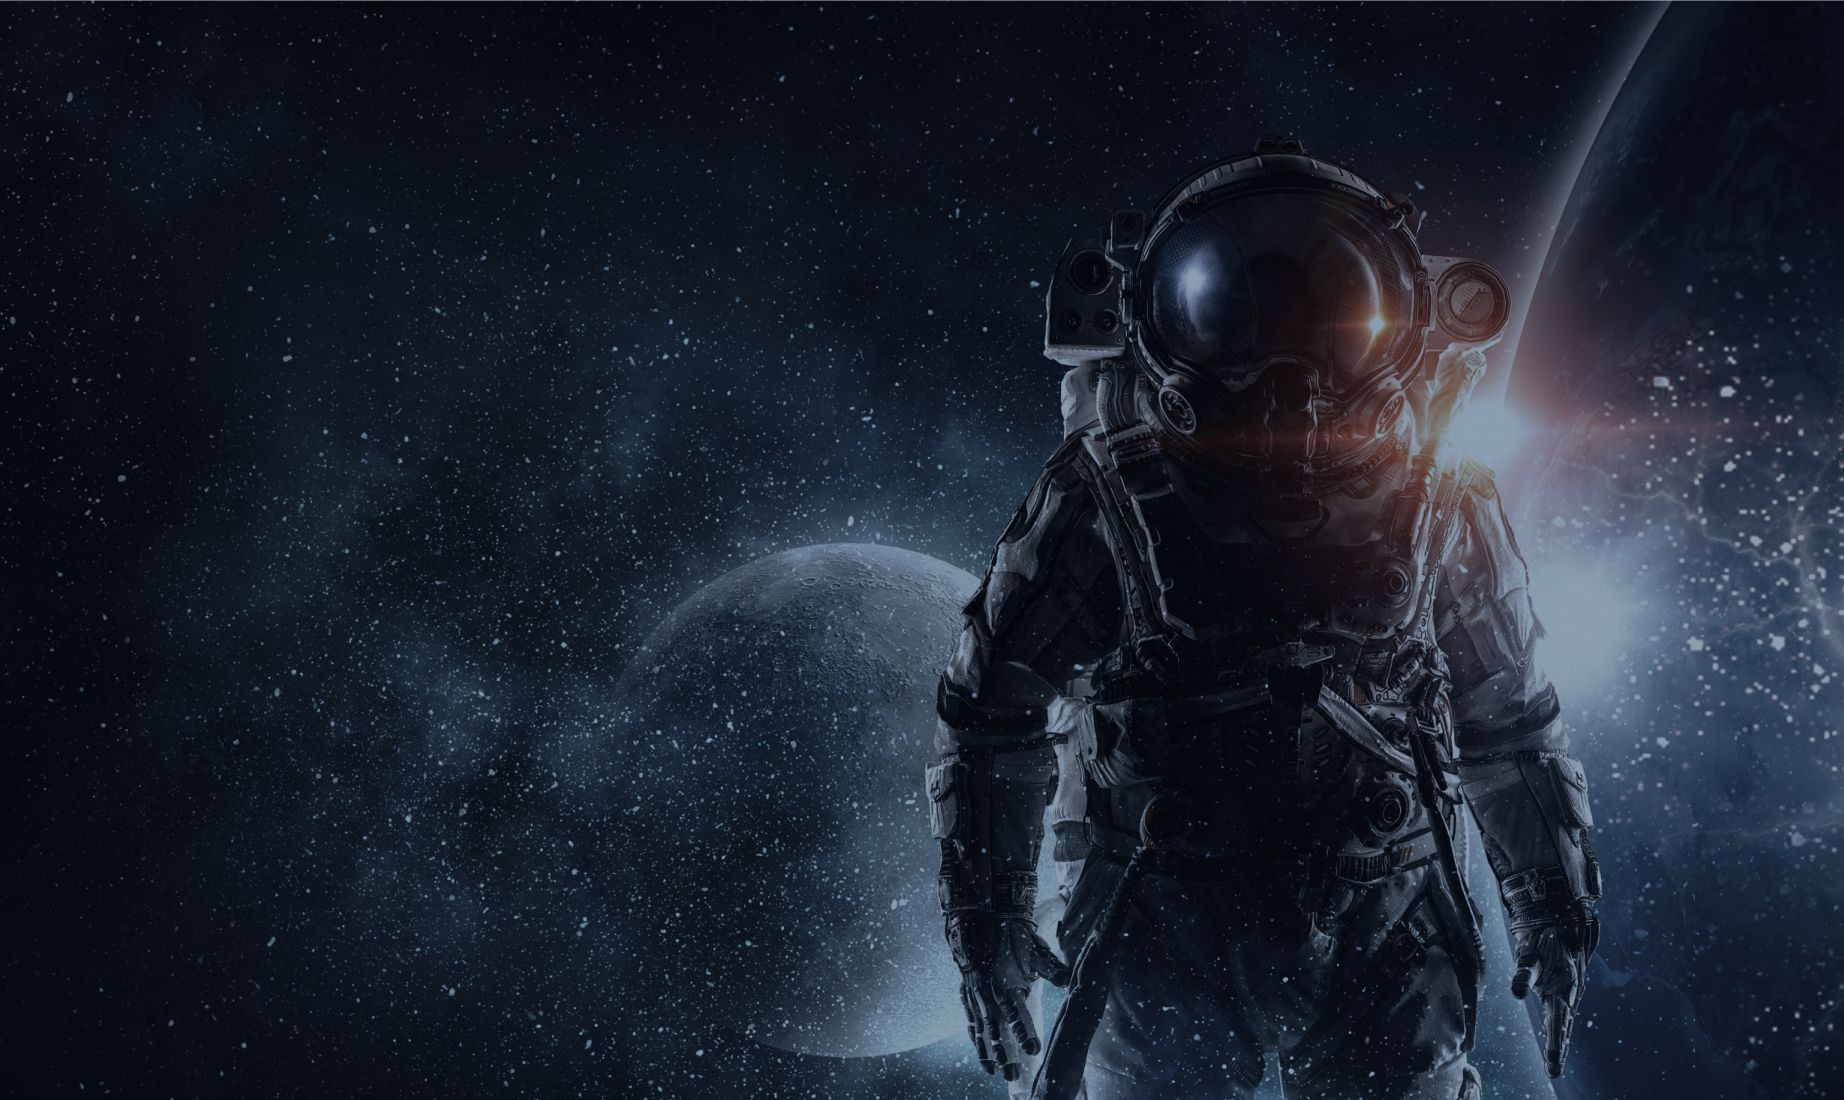
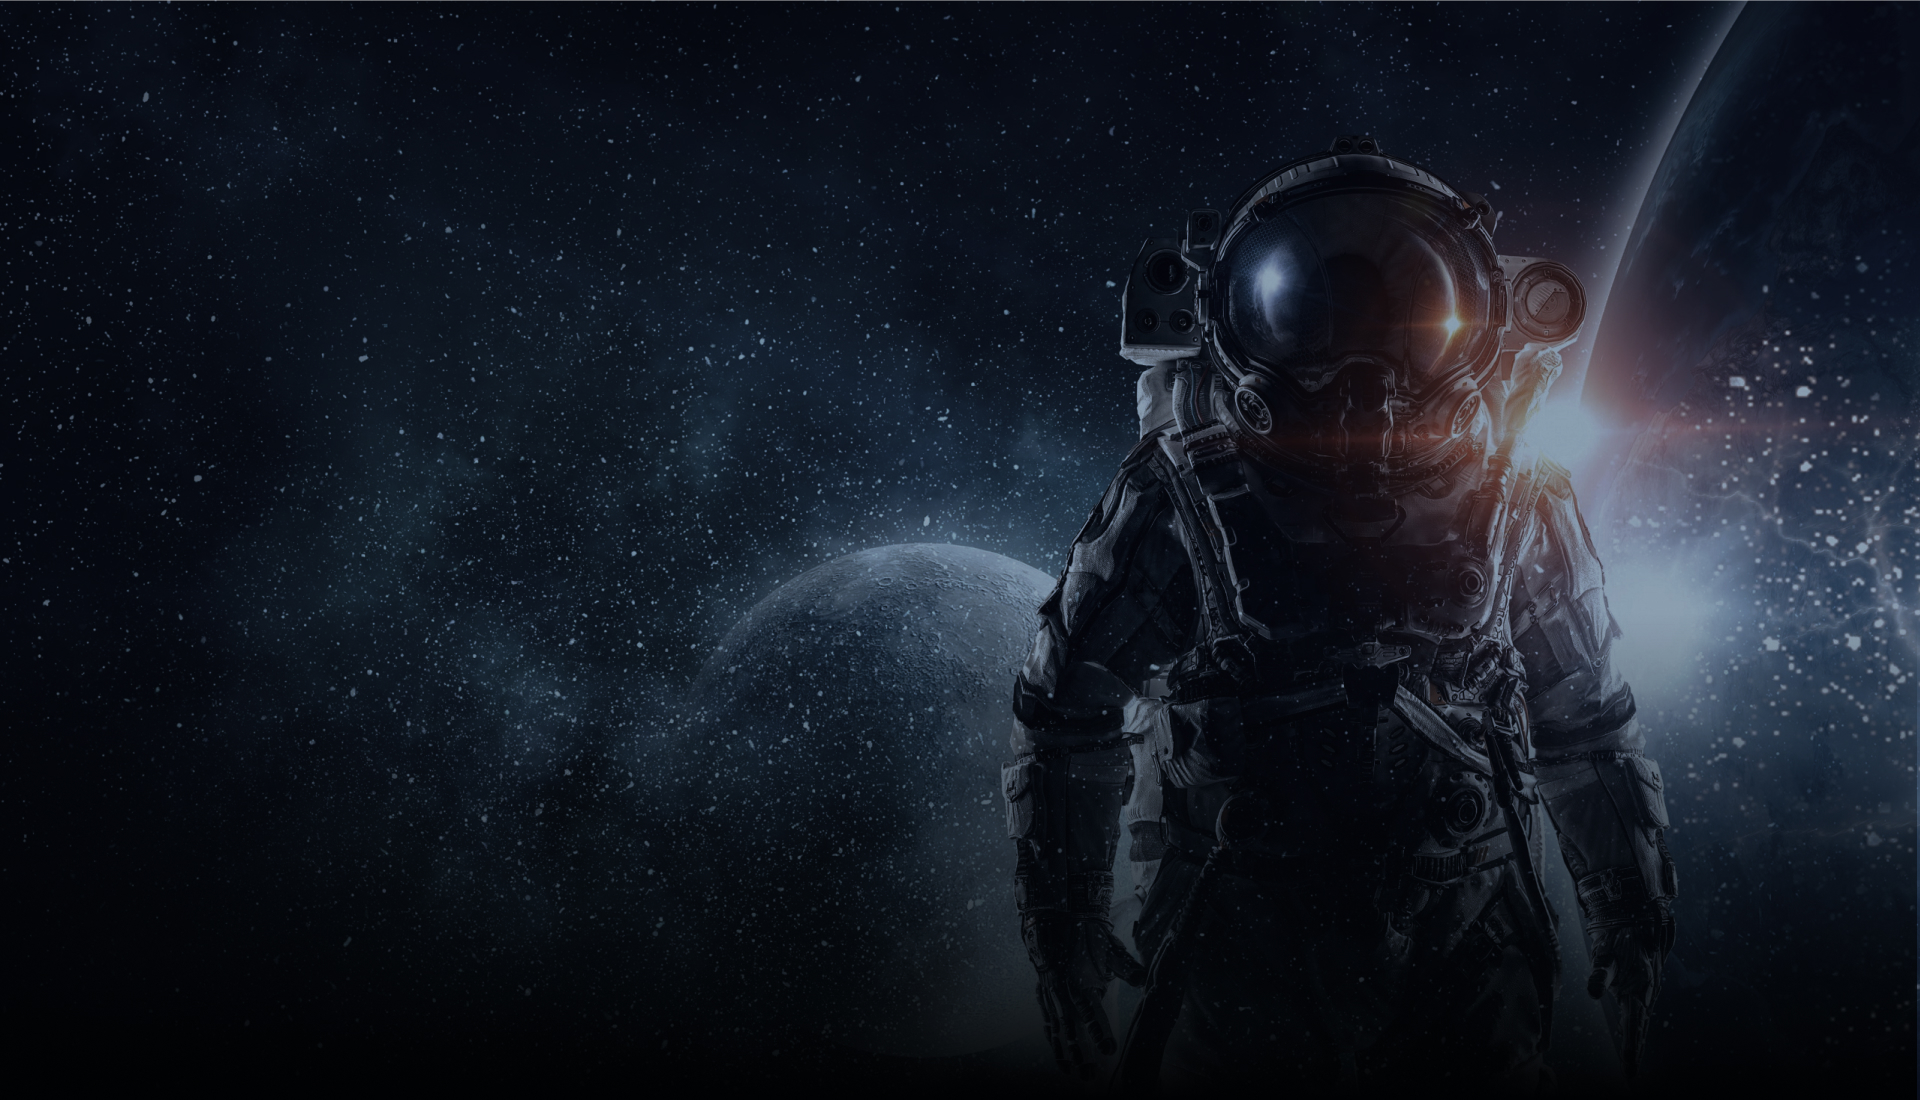
header finished

diff --git a/css/style.css b/css/style.css
@@ -22,13 +22,34 @@
 	font-display: swap;
 }
 
+@font-face {
+	font-family: "spaceagecyrillic";
+	src: url("../fonts/spaceagecyrillic-regular.woff2") format("woff2"),
+		url("../fonts/spaceagecyrillic-regular.woff") format("woff");
+	font-style: normal;
+	font-weight: normal;
+	font-display: swap;
+}
+
 a {
 	color: inherit;
 	text-decoration: none;
 }
 
+button {
+	border: none;
+	background-color: transparent;
+	cursor: pointer;
+	color: inherit;
+	font-family: "sf-pro-dispay";
+}
+
 body {
 	color: #fff;
+	font-family: "sf-pro-dispay";
+	font-size: 16px;
+	line-height: 19px;
+	font-weight: 400;
 }
 
 .container {
@@ -39,7 +60,7 @@ body {
 
 .header {
 	background-image: url(../images/header_bg.jpg);
-	background-position: center;
+	background-position: top center;
 	background-repeat: no-repeat;
 	background-size: cover;
 }
@@ -67,4 +88,75 @@ body {
 }
 
 .menu__link {
+	text-transform: uppercase;
+	font-size: 18px;
+	line-height: 21px;
+	transition: color .5s;
+}
+
+.menu__link:hover {
+	color: #CB0E0E;
+}
+
+.phone {
+	font-size: 24px;
+	line-height: 29px;
+	margin-left: auto;
+}
+
+.login {
+	margin-left: 22px;
+	margin-right: 134px;
+}
+
+.header__content {
+	max-width: 600px;
+}
+
+.header__title {
+	font-family: 'spaceagecyrillic';
+	font-size: 60px;
+	line-height: 60px;
+	font-weight: 400;
+	margin-bottom: 20px;
+}
+
+.header__title span {
+	font-size: 110px;
+}
+
+.header__text {
+	font-size: 24px;
+	line-height: 29px;
+	display: flex;
+	justify-content: space-between;
+	flex-wrap: wrap;
+	margin-bottom: 50px;
+}
+
+.header__btn {
+	font-size: 24px;
+	line-height: 29px;
+	text-transform: uppercase;
+	text-align: center;
+	width: 100%;
+	border: 1px solid #fff;
+	padding: 15px 10px 16px;
+}
+
+.header__description {
+	display: flex;
+	justify-content: flex-end;
+	margin-top: 40px;
+	margin-bottom: 5%;
+}
+
+.header__description-text {
+	width: 165px;
+	font-size: 14px;
+	line-height: 17px;
+}
+
+.header__description-text + .header__description-text {
+	margin-left: 52px;
 }

diff --git a/index.html b/index.html
@@ -28,7 +28,7 @@
 					</nav>
 					<a class="phone" href="tel:080000000000">080000000000</a>
 					<button class="login">
-						<img src="" alt="login img" class="login__img">
+						<img src="images/login.png" alt="login img" class="login__img">
 					</button>
 				</div>
 				<div class="header__content">
@@ -45,9 +45,9 @@
 					</button>
 				</div>
 				<div class="header__description">
-					<p class="header__discription-text">В 2021 году наступила новая эра в освоении космоса - эра космического
+					<p class="header__description-text">В 2021 году наступила новая эра в освоении космоса - эра космического
 						туризма. Частные компании получили доступ к космическому пространству. </p>
-					<p class="header__discription-text">Между ними обострилась конкуренция, а цена билета на полеты в
+					<p class="header__description-text">Между ними обострилась конкуренция, а цена билета на полеты в
 						космическое пространство снизилась в сто раз.</p>
 				</div>
 			</div>
